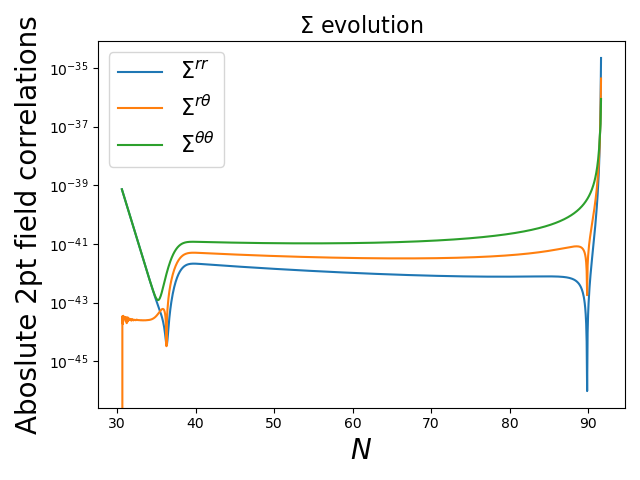
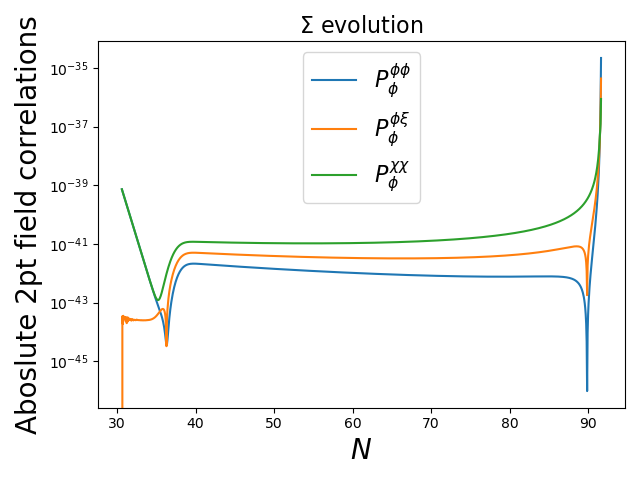
Fixed some labels

diff --git a/Examples/Angular/SimpleExample.py b/Examples/Angular/SimpleExample.py
@@ -31,9 +31,9 @@ import PyTransScripts as PyS
 nF=PyT.nF()
 nP=PyT.nP()
 
-pval = np.array([1/600, 9, 2e-5]) # Parameter values, format [alpha, R]
+pval = np.array([1/600, 9, 2e-5]) # Parameter values, format [alpha, R, mphi]
 r0, theta0 = 0.99, pi/4
-fields = r0 * np.array([cos(theta0), sin(theta0)]) # Initial values of the fields
+fields = r0 * np.array([cos(theta0), sin(theta0)]) # Initial values of the fields [phi, chi]
 
 V = PyT.V(fields, pval) # Calculate potential from some initial conditions
 dV = PyT.dV(fields, pval) # Calculate derivatives of potential
@@ -155,7 +155,7 @@ n_s = (np.log(zz2a)-np.log(zz1a))/(np.log(k+.1*k)-np.log(k))+4.0
 print(f'n_s: {n_s}')
 
 pairs = [(0,0), (0,1), (1,1)]
-labels = ['$\\Sigma^{rr}$', '$\\Sigma^{r\\theta}$', '$\\Sigma^{\\theta\\theta}$']
+labels = ['$P^{\\phi\\phi}_\\phi$', '$P^{\\phi\\chi}_\\phi$', '$P^{\\chi\\chi}_\\phi$']
 for ii, pair in enumerate(pairs):
     plt.plot(twoPt[:, 0], np.abs(sigma[:, pair[0] + 2*nF*pair[1]]), label=labels[ii])
 plt.title(r'$\Sigma$ evolution',fontsize=16)
@@ -172,9 +172,9 @@ sig_rth = np.abs(sigma[:, 2*nF])
 sig_thth = np.abs(sigma[:, 2*nF + 1])
 i_exit = np.argmin(np.abs(twoPt[:, 0] - NExit))
 print('At horizon crossing:')
-print('$\\Sigma^{rr}: $', sig_rr[i_exit])
-print('$\\Sigma^{r\\theta}: $', sig_rth[i_exit])
-print('$\\Sigma^{\\theta\\theta}$: ', sig_thth[i_exit])
+print('$P^{\\phi\\phi}_\\phi$: ', sig_rr[i_exit])
+print('$P^{\\phi\\chi}_\\phi$: ', sig_rth[i_exit])
+print('$P^{\\chi\\chi}_\\phi$: ', sig_thth[i_exit])
 
 plt.plot(tsig, zz1[:] * k**3 / 2 / np.pi**2)
 plt.title(r'$P_\zeta$ evolution',fontsize=16);
@@ -185,6 +185,8 @@ plt.tight_layout()
 plt.savefig('Examples/Angular/PowerSpectrum.png')
 plt.clf()
 print(f'Power spectrum: {zz1[:][-1] * k**3 / 2 / np.pi**2} at k = {k}')
+
+
 
 print('Done with 2-pt, starting bispectrum calculation.')
 

diff --git a/Examples/Angular/AngularSetup.py b/Examples/Angular/AngularSetup.py
@@ -12,7 +12,7 @@ import PyTransSetup  # the above commands allows python to find the PyTransSetup
 
 nF = 2  # number of fields
 nP = 3  # number of parameters
-f = sym.symarray('f',nF)   # an array representing the nF fields present for this model
+f = sym.symarray('f',nF)   # an array representing the nF fields present for this model [phi, chi]
 p = sym.symarray('p',nP)   # an array representing the nP parameters needed to define this model, format [alpha, R, mphi]
 
 V = p[0]/2 * p[2]**2 * (f[0]**2 + p[1]*f[1]**2)   # this is the potential written in sympy notation
